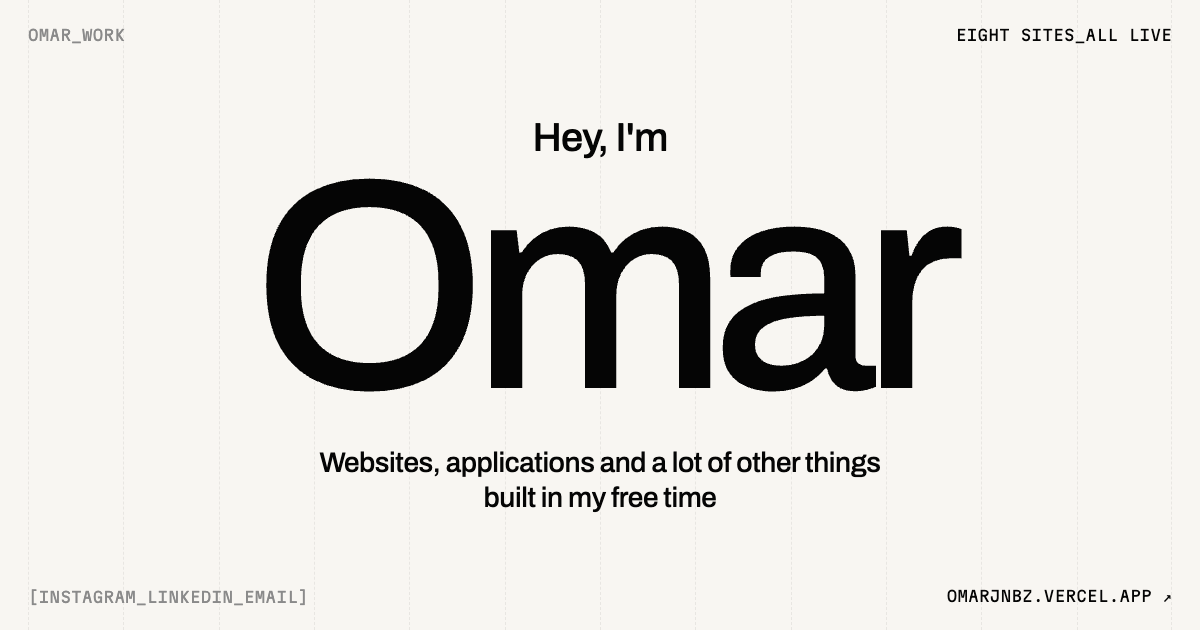
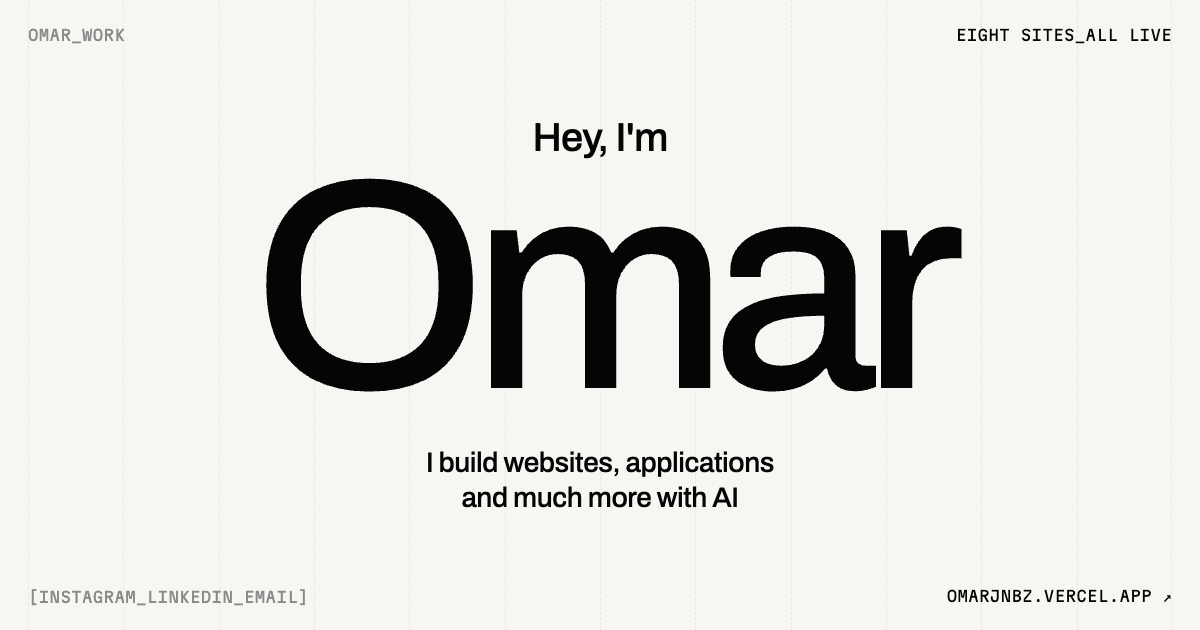
Share card matches the new hero line; explicit Twitter tags and image alt

Changed region(s): [[0.2467, 0.7238, 0.74, 0.8143]]

diff --git a/index.html b/index.html
@@ -5,17 +5,21 @@
 <meta name="viewport" content="width=device-width, initial-scale=1, viewport-fit=cover">
 <meta name="color-scheme" content="light">
 <meta name="theme-color" content="#f8f6f2">
-<meta name="description" content="Hey, I'm Omar. Websites, applications and a lot of other things, built in my free time. Every piece of work opens the real, live site">
+<meta name="description" content="Hey, I'm Omar. I build websites, applications and much more with AI. Every piece of work opens the real, live site">
 <link rel="canonical" href="https://omarjnbz.vercel.app/">
 <meta property="og:type" content="website">
 <meta property="og:site_name" content="Omar">
 <meta property="og:title" content="Hey, I'm Omar">
-<meta property="og:description" content="Websites, applications and a lot of other things, built in my free time">
+<meta property="og:description" content="I build websites, applications and much more with AI. Explore my work">
 <meta property="og:url" content="https://omarjnbz.vercel.app/">
-<meta property="og:image" content="https://omarjnbz.vercel.app/og.png?v=2">
+<meta property="og:image" content="https://omarjnbz.vercel.app/og.png?v=3">
+<meta property="og:image:alt" content="Hey, I'm Omar. I build websites, applications and much more with AI">
 <meta property="og:image:width" content="1200">
 <meta property="og:image:height" content="630">
 <meta name="twitter:card" content="summary_large_image">
+<meta name="twitter:title" content="Hey, I'm Omar">
+<meta name="twitter:description" content="I build websites, applications and much more with AI. Explore my work">
+<meta name="twitter:image" content="https://omarjnbz.vercel.app/og.png?v=3">
 <link rel="icon" href="icon.svg" type="image/svg+xml">
 <link rel="apple-touch-icon" href="apple-touch-icon.png">
 <title>Omar — Work</title>
